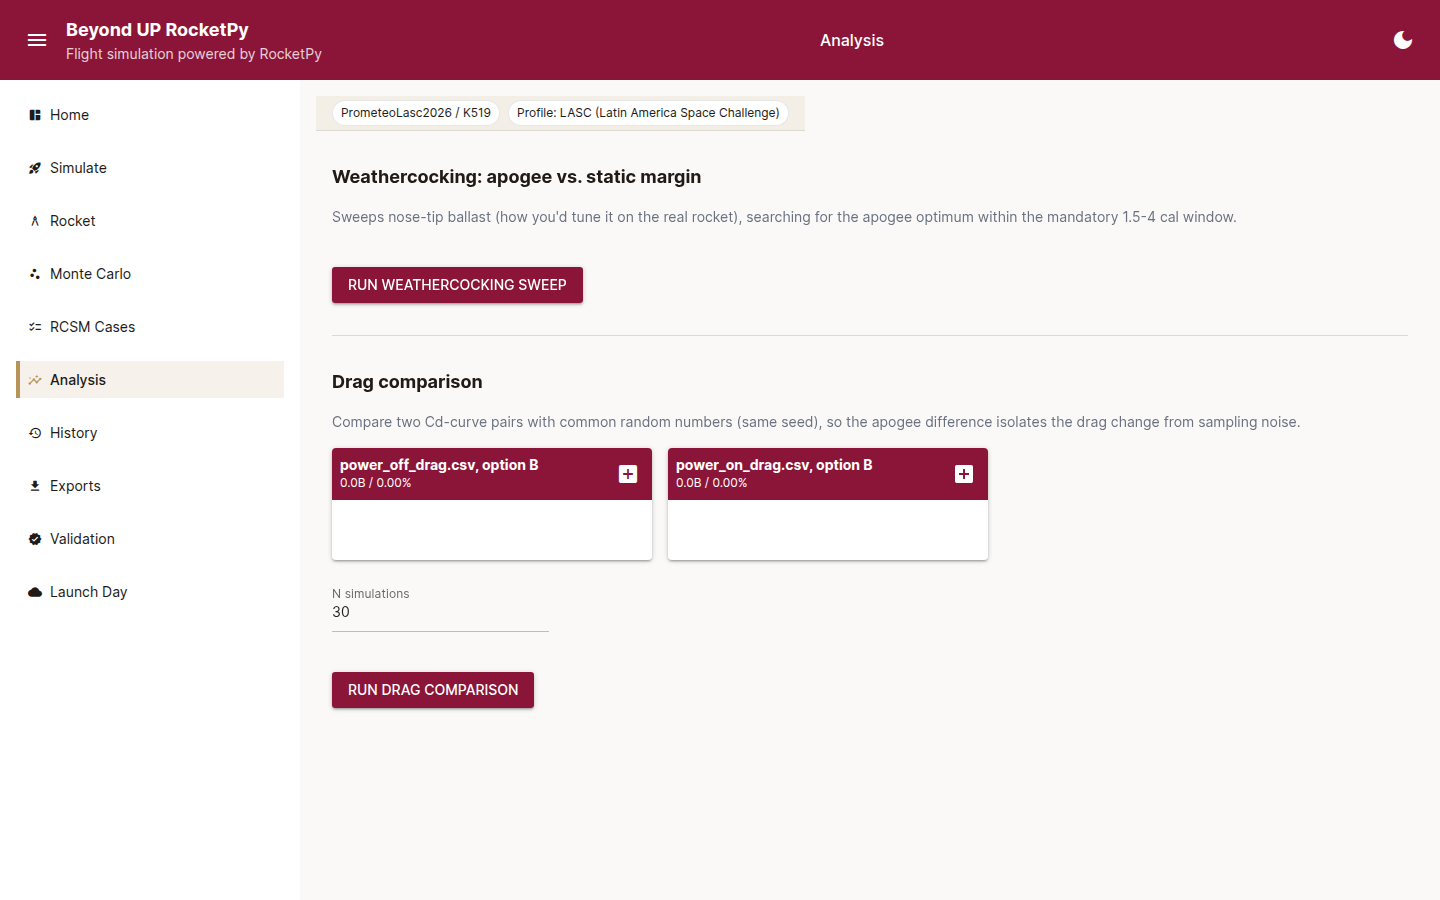
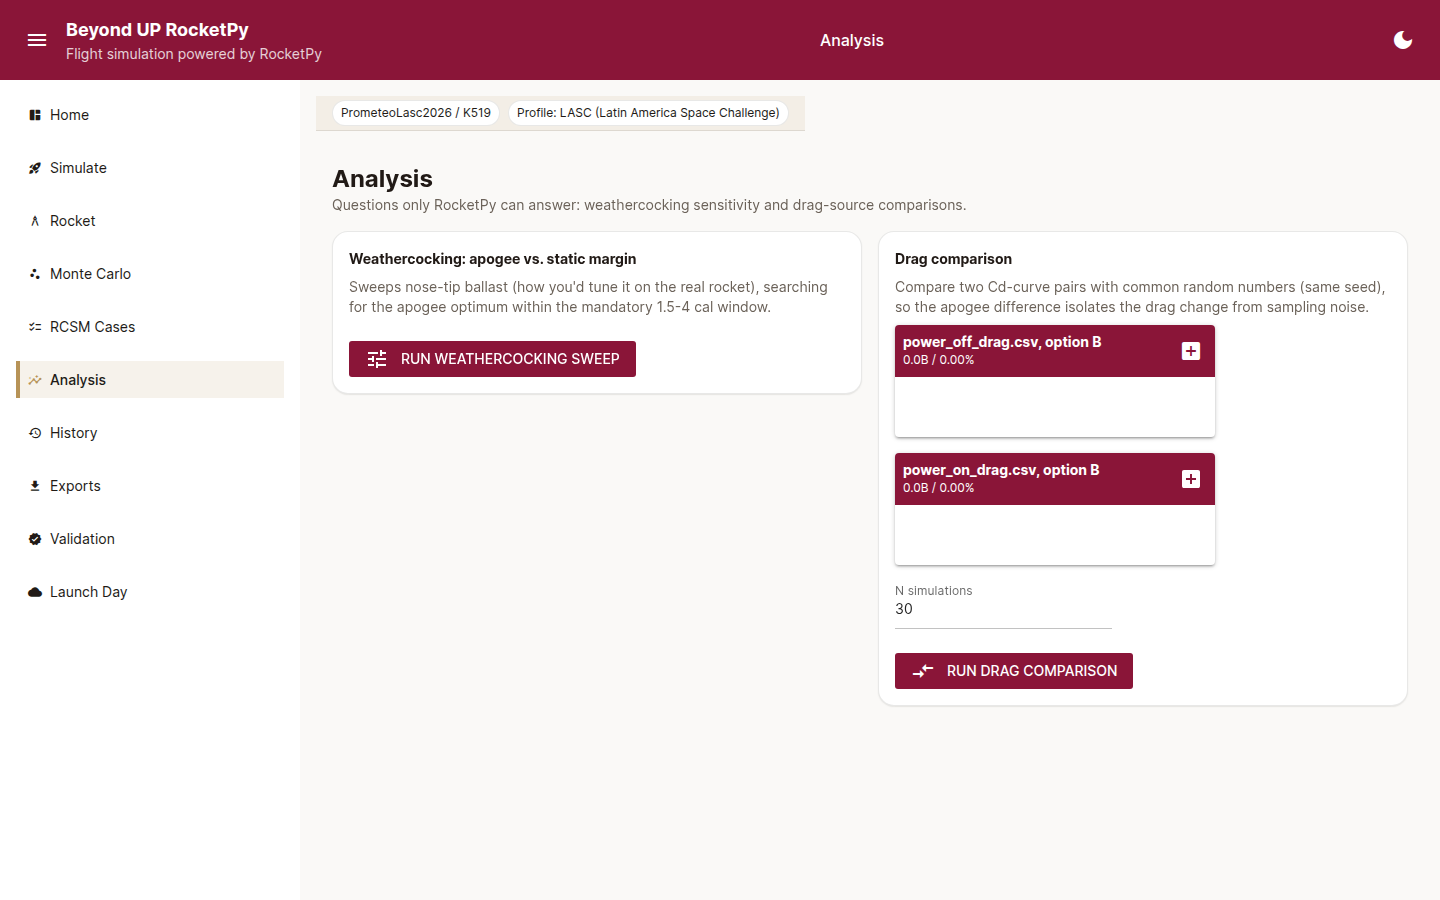
UI redesign: Analysis page
- Weathercocking and drag comparison now sit in two clear side-by-side
  cards (per the redesign brief) instead of one long stacked column
  separated by a plain <hr>.
- Result highlights (weathercocking optimum, drag-comparison
  significance) now use components.status_chip instead of a bare
  colored label.
- page_header + empty_state for the "nothing loaded yet" guard.

Full suite: test_phase0_e2e_full.py (3/3) green.

Claude-Session: https://claude.ai/code/session_01RHCgNw4tm9jk7r5jJja457

diff --git a/bup_rocketpy/gui/pages/analysis_page.py b/bup_rocketpy/gui/pages/analysis_page.py
@@ -7,7 +7,7 @@ import matplotlib
 import matplotlib.pyplot as plt
 from nicegui import ui
 
-from bup_rocketpy.gui import layout, state
+from bup_rocketpy.gui import components, layout, state
 from bup_rocketpy import analysis, monte_carlo, translate
 
 matplotlib.use("Agg")
@@ -18,99 +18,110 @@ OUTPUTS_DIR = os.path.join(os.getcwd(), "outputs", "gui_run")
 @ui.page("/analysis")
 def analysis_page():
     with layout.layout("Analysis", current_path="/analysis"):
+        components.page_header("Analysis", "Questions only RocketPy can answer: weathercocking sensitivity and drag-source comparisons.")
         if s["load_result"] is None or s["sim_result"] is None:
-            ui.label("Load files and click Simulate on the Simulate page first (no manual override needed - the default path works from the .ork alone).").classes("text-gray-500")
+            components.empty_state("insights", "Load files and click Simulate on the Simulate page first (no manual override needed - the default path works from the .ork alone).", action_label="Go to Simulate", on_action=lambda: ui.navigate.to("/simulate"))
             return
 
-        ui.label("Weathercocking: apogee vs. static margin").classes("text-lg font-bold")
-        ui.label("Sweeps nose-tip ballast (how you'd tune it on the real rocket), searching for the apogee optimum within the mandatory 1.5-4 cal window.").classes("text-sm text-gray-500")
-        wc_container = ui.column().classes("w-full mt-2")
+        with ui.row().classes("gap-4 w-full items-start flex-wrap"):
+            with components.card(classes="flex-1 min-w-[380px]"):
+                ui.label("Weathercocking: apogee vs. static margin").classes("font-bold")
+                ui.label("Sweeps nose-tip ballast (how you'd tune it on the real rocket), searching for the apogee optimum within the mandatory 1.5-4 cal window.").classes("text-sm").style("color: var(--bup-muted)")
+                wc_container = ui.column().classes("w-full mt-2")
 
-        def run_weathercocking():
-            parsed = s["load_result"].parsed_ork
-            mass_est = translate.MassEstimate(s["dry_mass_kg"], s["dry_cg_m"], "UI")
-            # 2026-09-27 review item 1: start from the SAME inertia Simulate
-            # itself used for this rocket (state["dry_i_*"]), not a fresh
-            # geometric re-derivation that could silently disagree with it -
-            # the sweep below still recomputes inertia per candidate ballast
-            # position, this is only the baseline/no-ballast starting point.
-            i_ax, i_tr = (s["dry_i_axial_kgm2"], s["dry_i_transverse_kgm2"]) if s["dry_i_axial_kgm2"] is not None else translate.estimate_dry_inertia(parsed, mass_est)
-            radius = next(t.radius for t in parsed.body_tubes if t.radius)
-            result = analysis.weathercocking_sweep(
-                parsed, s["load_result"].parsed_eng, s["load_result"].eng_path,
-                s["load_result"].power_off_drag_path, s["load_result"].power_on_drag_path,
-                s["dry_mass_kg"], s["dry_cg_m"], i_ax, i_tr, radius,
-            )
-            s["weathercocking_result"] = result
-            wc_container.clear()
-            with wc_container:
-                fig, ax = plt.subplots(figsize=(6, 3.5))
-                margins = [p.static_margin_cal for p in result.points]
-                apogees = [p.apogee_agl_m for p in result.points]
-                colors = ["#8A1538" if p.in_valid_range else "#999999" for p in result.points]
-                ax.scatter(margins, apogees, c=colors)
-                ax.axvline(1.5, color="#B79357", linestyle=":", label="1.5-4 cal window")
-                ax.axvline(4.0, color="#B79357", linestyle=":")
-                ax.set_xlabel("Static margin (cal)")
-                ax.set_ylabel("Apogee AGL (m)")
-                ax.legend()
-                path = os.path.join(OUTPUTS_DIR, "weathercocking.png")
-                fig.tight_layout()
-                fig.savefig(path)
-                plt.close(fig)
-                ui.image(path).classes("w-full max-w-xl")
-                if result.best_point:
-                    ui.label(f"Optimum: {result.best_point.ballast_mass_kg:.2f} kg ballast, margin {result.best_point.static_margin_cal:.2f} cal, apogee {result.best_point.apogee_agl_m:.1f} m").classes("font-bold mt-2")
-                    if result.hit_lower_bound:
-                        ui.label("This lands on the LOWER bound of the tested range - adding ballast only increases margin from here, so no added ballast is needed for this vehicle.").classes("text-sm text-gray-500")
+                def run_weathercocking():
+                    parsed = s["load_result"].parsed_ork
+                    mass_est = translate.MassEstimate(s["dry_mass_kg"], s["dry_cg_m"], "UI")
+                    # 2026-09-27 review item 1: start from the SAME inertia Simulate
+                    # itself used for this rocket (state["dry_i_*"]), not a fresh
+                    # geometric re-derivation that could silently disagree with it -
+                    # the sweep below still recomputes inertia per candidate ballast
+                    # position, this is only the baseline/no-ballast starting point.
+                    i_ax, i_tr = (s["dry_i_axial_kgm2"], s["dry_i_transverse_kgm2"]) if s["dry_i_axial_kgm2"] is not None else translate.estimate_dry_inertia(parsed, mass_est)
+                    radius = next(t.radius for t in parsed.body_tubes if t.radius)
+                    result = analysis.weathercocking_sweep(
+                        parsed, s["load_result"].parsed_eng, s["load_result"].eng_path,
+                        s["load_result"].power_off_drag_path, s["load_result"].power_on_drag_path,
+                        s["dry_mass_kg"], s["dry_cg_m"], i_ax, i_tr, radius,
+                    )
+                    s["weathercocking_result"] = result
+                    wc_container.clear()
+                    with wc_container:
+                        fig, ax = plt.subplots(figsize=(6, 3.5))
+                        margins = [p.static_margin_cal for p in result.points]
+                        apogees = [p.apogee_agl_m for p in result.points]
+                        colors = ["#8A1538" if p.in_valid_range else "#999999" for p in result.points]
+                        ax.scatter(margins, apogees, c=colors)
+                        ax.axvline(1.5, color="#B79357", linestyle=":", label="1.5-4 cal window")
+                        ax.axvline(4.0, color="#B79357", linestyle=":")
+                        ax.set_xlabel("Static margin (cal)")
+                        ax.set_ylabel("Apogee AGL (m)")
+                        ax.legend()
+                        path = os.path.join(OUTPUTS_DIR, "weathercocking.png")
+                        fig.tight_layout()
+                        fig.savefig(path)
+                        plt.close(fig)
+                        ui.image(path).classes("w-full")
+                        if result.best_point:
+                            components.status_chip(
+                                f"Optimum: {result.best_point.ballast_mass_kg:.2f} kg ballast, margin {result.best_point.static_margin_cal:.2f} cal, apogee {result.best_point.apogee_agl_m:.1f} m",
+                                "success",
+                            )
+                            if result.hit_lower_bound:
+                                ui.label("This lands on the LOWER bound of the tested range - adding ballast only increases margin from here, so no added ballast is needed for this vehicle.").classes("text-sm mt-1").style("color: var(--bup-muted)")
+                    components.finish_motion()
 
-        ui.button("Run weathercocking sweep", on_click=run_weathercocking)
+                components.button("Run weathercocking sweep", kind="primary", icon="tune", on_click=run_weathercocking)
 
-        ui.separator().classes("my-4")
-        ui.label("Drag comparison").classes("text-lg font-bold")
-        ui.label("Compare two Cd-curve pairs with common random numbers (same seed), so the apogee difference isolates the drag change from sampling noise.").classes("text-sm text-gray-500")
-        with ui.row():
-            off_b = ui.upload(label="power_off_drag.csv, option B", auto_upload=True)
-            on_b = ui.upload(label="power_on_drag.csv, option B", auto_upload=True)
-        n_input = ui.number(label="N simulations", value=30)
-        drag_container = ui.column().classes("w-full mt-2")
-        drag_state = {"off_b": None, "on_b": None}
+            with components.card(classes="flex-1 min-w-[380px]"):
+                ui.label("Drag comparison").classes("font-bold")
+                ui.label("Compare two Cd-curve pairs with common random numbers (same seed), so the apogee difference isolates the drag change from sampling noise.").classes("text-sm").style("color: var(--bup-muted)")
+                with ui.row():
+                    off_b = ui.upload(label="power_off_drag.csv, option B", auto_upload=True)
+                    on_b = ui.upload(label="power_on_drag.csv, option B", auto_upload=True)
+                n_input = ui.number(label="N simulations", value=30)
+                drag_container = ui.column().classes("w-full mt-2")
+                drag_state = {"off_b": None, "on_b": None}
 
-        async def _save(e, suffix, key):
-            import tempfile
-            fd, path = tempfile.mkstemp(suffix=suffix)
-            os.close(fd)
-            await e.file.save(path)
-            drag_state[key] = path
-            ui.notify(f"Loaded option B: {e.file.name}")
+                async def _save(e, suffix, key):
+                    import tempfile
+                    fd, path = tempfile.mkstemp(suffix=suffix)
+                    os.close(fd)
+                    await e.file.save(path)
+                    drag_state[key] = path
+                    ui.notify(f"Loaded option B: {e.file.name}")
 
-        off_b.on_upload(lambda e: _save(e, ".csv", "off_b"))
-        on_b.on_upload(lambda e: _save(e, ".csv", "on_b"))
+                off_b.on_upload(lambda e: _save(e, ".csv", "off_b"))
+                on_b.on_upload(lambda e: _save(e, ".csv", "on_b"))
 
-        def run_drag_comparison():
-            if not drag_state["off_b"] or not drag_state["on_b"]:
-                ui.notify("Upload both CSVs for option B first.", type="warning")
-                return
-            parsed = s["load_result"].parsed_ork
-            mass_est = translate.MassEstimate(s["dry_mass_kg"], s["dry_cg_m"], "UI")
-            # 2026-09-27 review item 1: same rocket as Simulate's own
-            # Nominal result - use its actually-used inertia, not a fresh
-            # geometric re-derivation, or the two drag curves being
-            # compared would each fly a subtly different rocket.
-            i_ax, i_tr = (s["dry_i_axial_kgm2"], s["dry_i_transverse_kgm2"]) if s["dry_i_axial_kgm2"] is not None else translate.estimate_dry_inertia(parsed, mass_est)
-            radius = next(t.radius for t in parsed.body_tubes if t.radius)
-            uncertainties = monte_carlo.default_uncertainties(s["dry_mass_kg"], 1871.3, parsed.launch.wind_average_ms)
-            result = analysis.drag_comparison(
-                parsed, s["load_result"].parsed_eng, s["load_result"].eng_path,
-                (s["load_result"].power_off_drag_path, s["load_result"].power_on_drag_path),
-                (drag_state["off_b"], drag_state["on_b"]),
-                s["dry_mass_kg"], s["dry_cg_m"], i_ax, i_tr, radius,
-                uncertainties, int(n_input.value), os.path.join(OUTPUTS_DIR, "drag_comparison"), seed=42,
-            )
-            drag_container.clear()
-            with drag_container:
-                significant = result.difference_ci_90[0] > 0 or result.difference_ci_90[1] < 0
-                ui.label(f"Difference (B - A): {result.mean_difference_m:+.1f} m, 90% CI [{result.difference_ci_90[0]:+.1f}, {result.difference_ci_90[1]:+.1f}] m").classes("font-bold")
-                ui.label("The difference is REAL (CI excludes zero)." if significant else "The difference is NOT statistically significant at this N (CI includes zero) - run more samples.").classes("text-sm " + ("text-green-700" if significant else "text-orange-600"))
+                def run_drag_comparison():
+                    if not drag_state["off_b"] or not drag_state["on_b"]:
+                        ui.notify("Upload both CSVs for option B first.", type="warning")
+                        return
+                    parsed = s["load_result"].parsed_ork
+                    mass_est = translate.MassEstimate(s["dry_mass_kg"], s["dry_cg_m"], "UI")
+                    # 2026-09-27 review item 1: same rocket as Simulate's own
+                    # Nominal result - use its actually-used inertia, not a fresh
+                    # geometric re-derivation, or the two drag curves being
+                    # compared would each fly a subtly different rocket.
+                    i_ax, i_tr = (s["dry_i_axial_kgm2"], s["dry_i_transverse_kgm2"]) if s["dry_i_axial_kgm2"] is not None else translate.estimate_dry_inertia(parsed, mass_est)
+                    radius = next(t.radius for t in parsed.body_tubes if t.radius)
+                    uncertainties = monte_carlo.default_uncertainties(s["dry_mass_kg"], 1871.3, parsed.launch.wind_average_ms)
+                    result = analysis.drag_comparison(
+                        parsed, s["load_result"].parsed_eng, s["load_result"].eng_path,
+                        (s["load_result"].power_off_drag_path, s["load_result"].power_on_drag_path),
+                        (drag_state["off_b"], drag_state["on_b"]),
+                        s["dry_mass_kg"], s["dry_cg_m"], i_ax, i_tr, radius,
+                        uncertainties, int(n_input.value), os.path.join(OUTPUTS_DIR, "drag_comparison"), seed=42,
+                    )
+                    drag_container.clear()
+                    with drag_container:
+                        significant = result.difference_ci_90[0] > 0 or result.difference_ci_90[1] < 0
+                        ui.label(f"Difference (B - A): {result.mean_difference_m:+.1f} m, 90% CI [{result.difference_ci_90[0]:+.1f}, {result.difference_ci_90[1]:+.1f}] m").classes("font-bold")
+                        components.status_chip(
+                            "The difference is REAL (CI excludes zero)." if significant else "The difference is NOT statistically significant at this N (CI includes zero) - run more samples.",
+                            "success" if significant else "warning",
+                        )
+                    components.finish_motion()
 
-        ui.button("Run drag comparison", on_click=run_drag_comparison)
+                components.button("Run drag comparison", kind="primary", icon="compare_arrows", on_click=run_drag_comparison)
